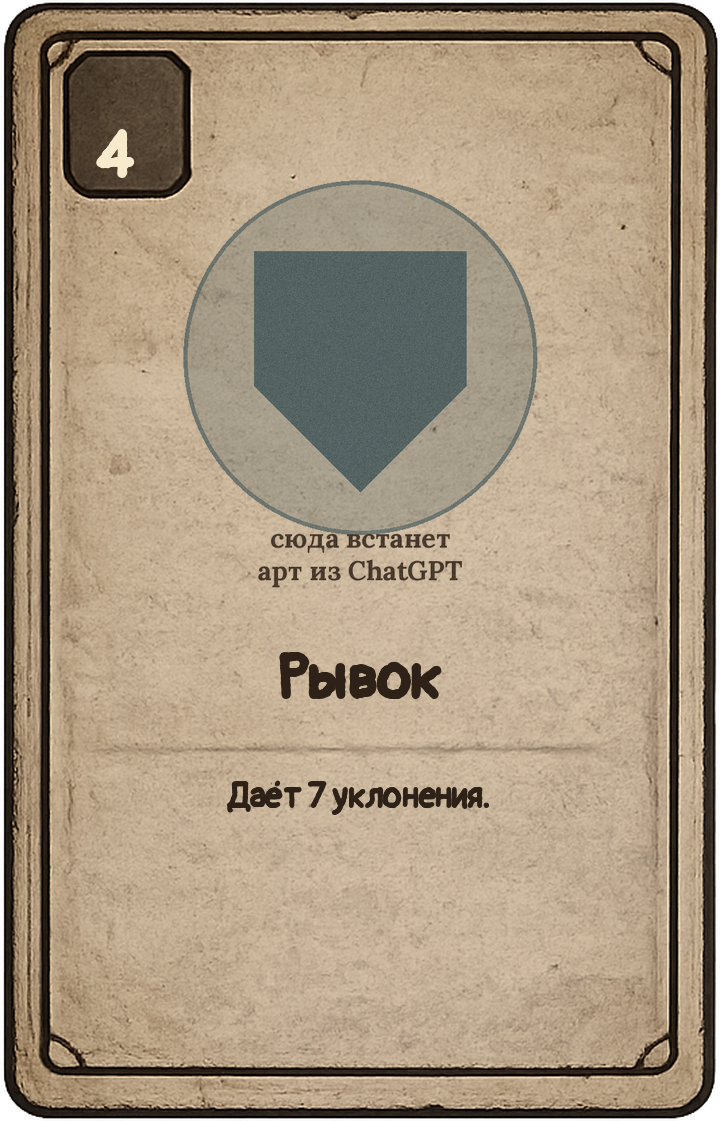
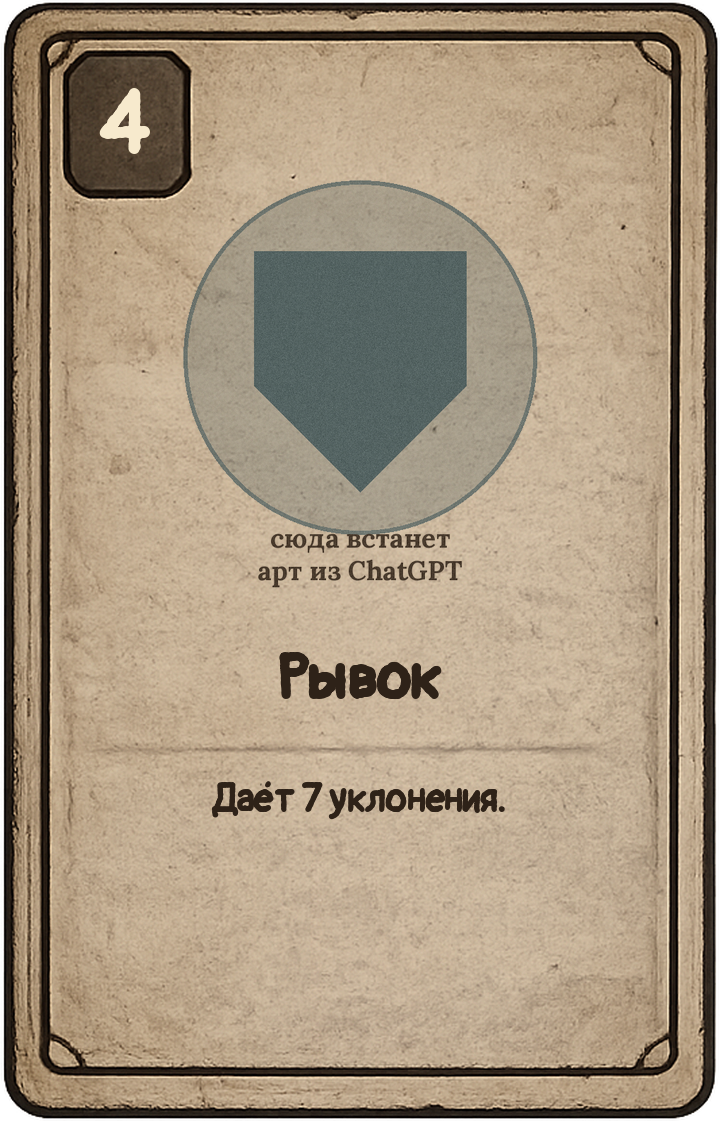
Add old-Pillow compatibility shims (e.g. Pythonista on iOS)
Wrap text width, glyph bbox and stroke drawing behind helpers that fall
back to pre-Pillow-8 APIs (getsize instead of getlength/getbbox, and a
faux-bold multi-draw when stroke_width is unsupported), so the tool runs
in bundled-PIL environments like Pythonista without code changes.

Changed region(s): [[0.275, 0.6869, 0.7028, 0.7493], [0.1222, 0.0624, 0.2139, 0.1561]]

diff --git a/style-forge/forge.py b/style-forge/forge.py
@@ -40,12 +40,41 @@ def font(cfg, role, size):
     return ImageFont.truetype(os.path.join(HERE, cfg["fonts"][role]), size)
 
 
+# ── совместимость со старым Pillow (например, встроенным в Pythonista на iOS) ──
+
+def text_len(f, s):
+    """Ширина строки. getlength есть только с Pillow 8; иначе getsize."""
+    return f.getlength(s) if hasattr(f, "getlength") else f.getsize(s)[0]
+
+
+def glyph_box(f, s, sw=0):
+    """bbox краски глифа. Со старым Pillow — прямоугольник из getsize."""
+    if hasattr(f, "getbbox"):
+        try:
+            return f.getbbox(s, stroke_width=sw)
+        except TypeError:
+            return f.getbbox(s)
+    w, h = f.getsize(s)
+    return (0, 0, w, h)
+
+
+def draw_text(d, xy, s, f, fill, sw=0):
+    """Рисует текст; если Pillow не умеет stroke_width — имитирует жир смещениями."""
+    try:
+        d.text(xy, s, font=f, fill=fill, stroke_width=sw, stroke_fill=fill)
+    except TypeError:
+        x, y = xy
+        for dx in range(-sw, sw + 1):
+            for dy in range(-sw, sw + 1):
+                d.text((x + dx, y + dy), s, font=f, fill=fill)
+
+
 def fit_font(cfg, role, text, max_w, start, min_size=14):
     """Подбирает размер шрифта, чтобы текст влез в max_w."""
     size = start
     while size > min_size:
         f = font(cfg, role, size)
-        if f.getlength(text) <= max_w:
+        if text_len(f, text) <= max_w:
             return f
         size -= 2
     return font(cfg, role, min_size)
@@ -55,7 +84,7 @@ def wrap(draw, text, f, max_w):
     lines, cur = [], ""
     for word in text.split():
         trial = (cur + " " + word).strip()
-        if draw.textlength(trial, font=f) <= max_w:
+        if text_len(f, trial) <= max_w:
             cur = trial
         else:
             if cur:
@@ -130,7 +159,7 @@ def fit_tfont(cfg, text, max_w, start):
     size = int(start)
     while size > 12:
         f = tfont(cfg, size)
-        if f.getlength(text) <= max_w:
+        if text_len(f, text) <= max_w:
             return f
         size -= 2
     return tfont(cfg, 12)
@@ -138,14 +167,14 @@ def fit_tfont(cfg, text, max_w, start):
 
 def ctext(d, cx, y, s, f, fill, sw=0):
     """Текст по центру относительно cx, с утолщением через обводку (sw)."""
-    d.text((cx - d.textlength(s, font=f) / 2, y), s, font=f, fill=fill, stroke_width=sw, stroke_fill=fill)
+    draw_text(d, (cx - text_len(f, s) / 2, y), s, f, fill, sw)
 
 
 def glyph_centered(d, cx, cy, s, f, fill, sw=0):
     """Ставит текст так, чтобы РЕАЛЬНАЯ краска глифа попала в точку (cx, cy).
     Нужно для цифры в квадрате: метрики Pangolin врут, центруем по bbox."""
-    x0, y0, x1, y1 = f.getbbox(s, stroke_width=sw)
-    d.text((cx - (x0 + x1) / 2, cy - (y0 + y1) / 2), s, font=f, fill=fill, stroke_width=sw, stroke_fill=fill)
+    x0, y0, x1, y1 = glyph_box(f, s, sw)
+    draw_text(d, (cx - (x0 + x1) / 2, cy - (y0 + y1) / 2), s, f, fill, sw)
 
 
 def autocrop_alpha(img, pad=2):
@@ -243,7 +272,7 @@ def draw_price_plate(base, cx, top, price, cfg):
     f = tfont(cfg, 48)
     s = str(price)
     asc, desc = f.getmetrics()
-    d.text((coin_x + cr + 18, cy - (asc + desc) / 2), s, font=f, fill=(240, 224, 190), stroke_width=1, stroke_fill=(240, 224, 190))
+    draw_text(d, (coin_x + cr + 18, cy - (asc + desc) / 2), s, f, (240, 224, 190), 1)
 
 
 # ────────────────────────────────────────────────────────── плейсхолдер
